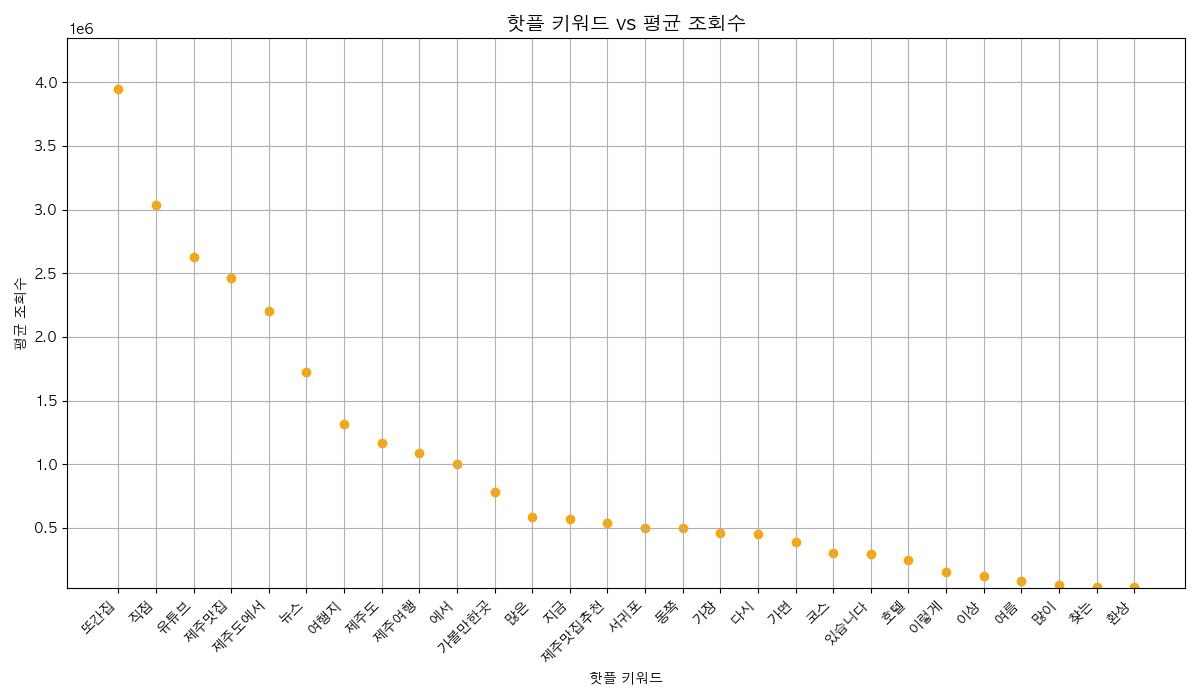
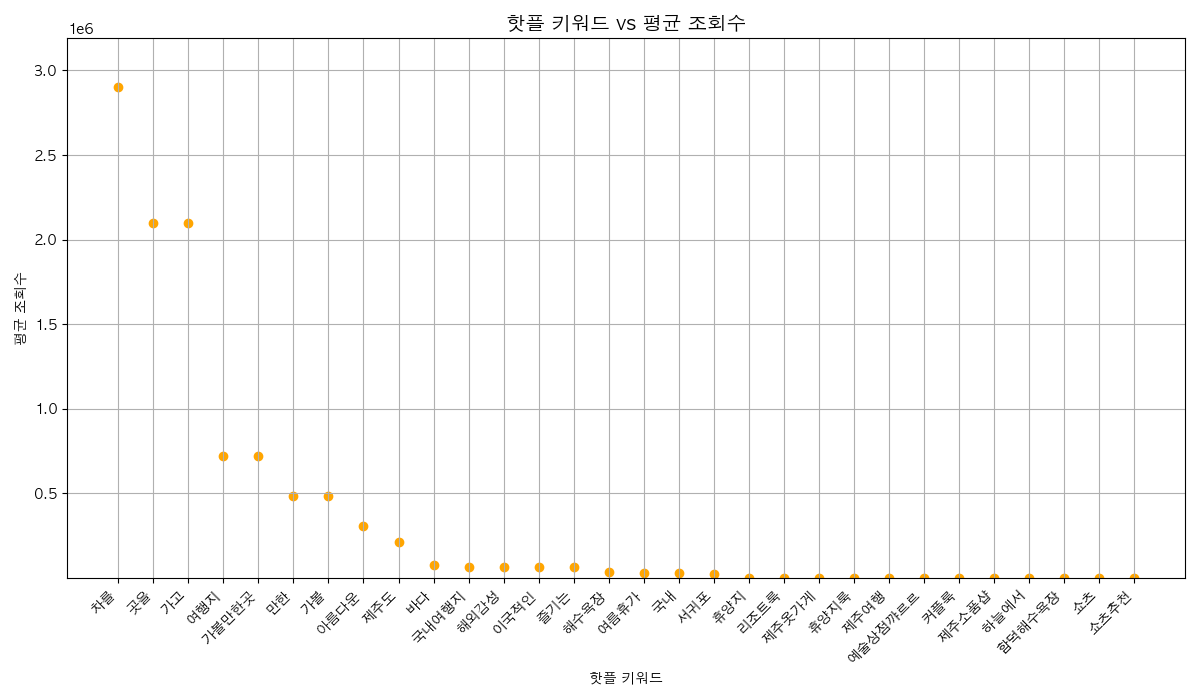
FEAT : 버튼으로 새로운 워드클라우드 스캐터 플롯 생성 완료

diff --git a/MiniProject/app.py b/MiniProject/app.py
@@ -1,5 +1,9 @@
+import os
+import re
 from flask import Flask, render_template, request, url_for, session
 import subprocess
+import glob
+
 
 app = Flask(__name__)
 app.secret_key = 'd04a0177ee3f235f95e354721bdabfdd'  # 세션 사용 위해 필요 (임시 키)
@@ -11,6 +15,7 @@ def index():
 
 @app.route('/run', methods=['POST'])
 def run_script():
+    global result
     query = request.form['query']
     limit = request.form['limit']
     sort = request.form['sort']
@@ -30,37 +35,56 @@ def run_script():
     message = summary_lines[0]
     preview = summary_lines[1:]
     session['preview'] = preview  # 세션에 저장
-    return render_template('index.html', message=message, preview=preview)
 
+    # ✅ 상대 경로로 csv_path 파싱 (대괄호 내부만 추출)
+    for line in summary_lines:
+        print(f"[디버그] summary line: {line}")
+        match = re.search(r"\[(hotplaces/.*?\.csv)\]", line)  # ✅ 대괄호 안만 추출
+        if match:
+            relative_path = match.group(1)
+            print(f"[디버그] 상대 경로 추출됨: {relative_path}")
+            session['csv_path'] = relative_path
+            break
+
+    return render_template('index.html', message=message, preview=preview)
 @app.route('/keyword_extractor', methods=['POST'])
 def generate_wordcloud():
+    csv_path = session.get('csv_path')
+    if not csv_path:
+        return render_template('index.html', message="❌ 먼저 데이터를 수집해주세요.")
+
     try:
         subprocess.run(
-            ['python3', 'scripts/keyword_extractor.py'],
+            ['python3', 'scripts/keyword_extractor.py', csv_path],
             capture_output=True,
             text=True,
             check=True
         )
-        image_path = url_for('static', filename='wordcloud.png')
-        preview = session.get('preview', [])
-        return render_template('index.html', image=image_path, message="✅ 워드클라우드 생성 완료!", show_modal=True, preview=preview)
+        latest_image = max(glob.glob("wordcloud/wordcloud_*.png"), key=os.path.getmtime)
+        image_path = '/' + latest_image.replace("\\", "/")
+        return render_template('index.html', image=image_path, message="✅ 워드클라우드 생성 완료!", show_modal=True,
+                               preview=session.get('preview', []))
     except subprocess.CalledProcessError as e:
         return render_template('index.html', message=f"❌ 워드클라우드 생성 오류:\n{e.stderr}")
-
 @app.route('/scatter_plot', methods=['POST'])
 def generate_scatter():
+    csv_path = session.get('csv_path')
+    if not csv_path:
+        return render_template('index.html', message="❌ 먼저 데이터를 수집해주세요.")
+
     try:
         subprocess.run(
-            ['python3', 'scripts/scatter_plot.py'],
+            ['python3', 'scripts/scatter_plot.py', csv_path],
             capture_output=True,
             text=True,
             check=True
         )
-        image_path = url_for('static', filename='scatter.png')
-        preview = session.get('preview', [])
-        return render_template('index.html', image=image_path, message="✅ 스캐터 플롯 생성 완료!", show_modal=True, preview=preview)
+        latest_image = max(glob.glob("scatter/scatter_avgviews_*.png"), key=os.path.getmtime)
+        image_path = '/' + latest_image.replace("\\", "/")
+        return render_template('index.html', image=image_path, message="✅ 스캐터 플롯 생성 완료!", show_modal=True,
+                               preview=session.get('preview', []))
     except subprocess.CalledProcessError as e:
         return render_template('index.html', message=f"❌ 스캐터 플롯 생성 오류:\n{e.stderr}")
 
 if __name__ == '__main__':
-    app.run(host='0.0.0.0', port=5000, debug=True)
+    app.run(host='0.0.0.0', port=5001, debug=True)

diff --git a/MiniProject/scripts/keyword_extractor.py b/MiniProject/scripts/keyword_extractor.py
@@ -7,19 +7,23 @@ from collections import Counter
 from wordcloud import WordCloud
 import matplotlib.pyplot as plt
 import shutil
+import sys
 
 
-# ✅ 0. 가장 최근에 생성된 hotplaces 디렉토리 내 csv 파일 찾기
-csv_files = glob.glob("../hotplaces/*.csv")
-if not csv_files:
-    print("❌ 분석 가능한 hotplaces csv 파일이 없습니다.")
-    exit()
+# # ✅ 0. 가장 최근에 생성된 hotplaces 디렉토리 내 csv 파일 찾기
+# csv_files = glob.glob("../hotplaces/*.csv")
+# if not csv_files:
+#     print("❌ 분석 가능한 hotplaces csv 파일이 없습니다.")
+#     exit()
 
-latest_file = max(csv_files, key=os.path.getmtime)
-print(f"📂 가장 최신 파일을 불러옵니다: {latest_file}")
+# latest_file = max(csv_files, key=os.path.getmtime)
+# print(f"📂 가장 최신 파일을 불러옵니다: {latest_file}")
+#
+# # ✅ 1. 데이터 로드
+# df = pd.read_csv(latest_file, encoding="utf-8-sig")
 
-# ✅ 1. 데이터 로드
-df = pd.read_csv(latest_file, encoding="utf-8-sig")
+csv_path = sys.argv[1]
+df = pd.read_csv(csv_path, encoding="utf-8-sig")
 
 # ✅ 2. 제목 + 설명 합치고 정제
 text = (df['title'].fillna('') + ' ' + df['description'].fillna('')).str.cat(sep=' ')

diff --git a/MiniProject/scripts/scatter_plot.py b/MiniProject/scripts/scatter_plot.py
@@ -8,6 +8,7 @@ import matplotlib.pyplot as plt
 import seaborn as sns
 import platform
 import shutil  # ✅ static 폴더 복사용
+import sys
 
 
 # ✅ 한글 폰트 설정 (Mac, Windows, Linux 대응)
@@ -21,14 +22,17 @@ else:
 plt.rcParams['axes.unicode_minus'] = False  # 마이너스 깨짐 방지
 
 # ✅ 1. 최신 핫플레이스 파일 불러오기
-csv_files = glob.glob("../hotplaces/*.csv")
-if not csv_files:
-    print("❌ hotplaces 폴더에 분석할 파일이 없습니다.")
-    exit()
+# csv_files = glob.glob("../hotplaces/*.csv")
+# if not csv_files:
+#     print("❌ hotplaces 폴더에 분석할 파일이 없습니다.")
+#     exit()
 
-latest_file = max(csv_files, key=os.path.getmtime)
-print(f"📂 최신 파일 로드: {latest_file}")
-df = pd.read_csv(latest_file, encoding='utf-8-sig')
+# latest_file = max(csv_files, key=os.path.getmtime)
+# print(f"📂 최신 파일 로드: {latest_file}")
+# df = pd.read_csv(latest_file, encoding='utf-8-sig')
+
+csv_path = sys.argv[1]
+df = pd.read_csv(csv_path, encoding="utf-8-sig")
 
 # ✅ 조회수 전처리: '1.2M', '850K', '10000' 등 → 정수
 def parse_views(view_str):
